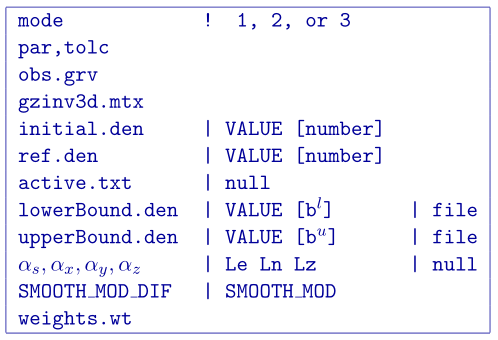
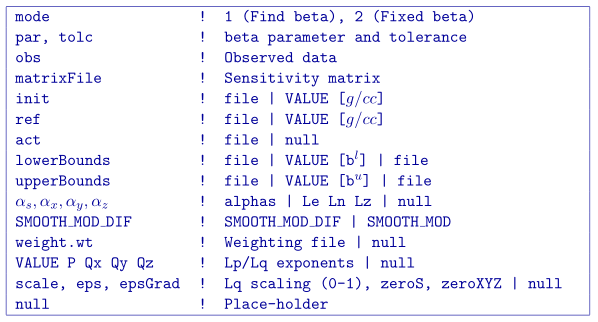
Updated sensitivity and inversion files to version 6.0.

diff --git a/content/theory.rst b/content/theory.rst
@@ -99,6 +99,15 @@ where :math:`\mathbf{\rho}` and :math:`\mathbf{\rho}_o` are :math:`M`-length vec
 
 In the previous two equations, the individual matrices :math:`\mathbf{W}_s`, :math:`\mathbf{W}_x`, :math:`\mathbf{W}_y`, and :math:`\mathbf{W}_z` are straight-forwardly calculated once the model mesh and the weighting functions :math:`w(\mathbf{r})` and :math:`w_s` , :math:`w_x`, :math:`w_y`, :math:`w_z` are defined. The cumulative matrix :math:`\mathbf{W}_m^T\mathbf{W}_m` is then formed for the chosen configuration.
 
+In addition, more realistic geologic-looking models can often be obtained by introducing various levels of sharpness and compactness into the inverted results. This is accomplished by using different norms in the model objective function. Minimizing an :math:`l_p`-norm of a model, as :math:`p` reduces from two to zero, generates a result that goes from smooth to blocky to compact. Our generalized norms, which we refer to as :math:`l_p, l_q`, allow various degrees of smoothness and compactness on different components of the model objective function:
+
+.. _lplqMOF:
+.. math::
+    \phi_m(\mathbf{\rho}) = \left \| \mathbf{W}_s(\mathbf{\rho}-\mathbf{\rho}_o)\right \|^p + \left \| \mathbf{W}_i(\mathbf{\rho})\right \|^{q_i} \quad (i=x,y,z)
+    :label: moflplq
+
+The above equation is solved through an iteratively re-weighted least-squares (IRLS) approach. The inversion is solved to the :math:`l_2` measure and then the model objective function is changed. The :math:`p` norm promotes sparseness through the model. The :math:`q_i` norms promotes blockiness (or smoothness for :math:`q_i=2`) in each principal direction. In equation :eq:`moflplq`, the depth/distance weighting is absorbed into the :math:`\mathbf{W}` matrices. 
+
 The next step in setting up the inversion is to define a misfit measure. Here we use the :math:`l_2`-norm measure
 
 .. _phid_:

diff --git a/content/programs/gzinv3d.rst b/content/programs/gzinv3d.rst
@@ -95,15 +95,28 @@ The parameters within the control file are:
 
 - ``weights.wt``: Name of the :ref:`weights file <weightsFile>` containing weighting matrices. If ``null`` is entered, default values of unity are used (no extra weighting).
 
+- ``VALUE P Qx Qy Qz``: The Lp/Lq exponents for the :ref:`model objective function <lplqMOF>`. The P is for the smallest model component and the Qs are for the spatial components. This line is optional and the L2 norm will be assumed for inputs of ``null`` or if the file ends on the previous line. 
+
+- ``scale,eps,epsGrad``: The scaling between Lp and Lq components in range :math:`[0,1]`. ``eps`` is an effective zero for the model values. ``epsGrad`` is an effective zero value for the change in model values spatially (i.e., derivatives). The program will calculate these zeros based on a single standard deviation of the L2 model if ``null`` is given with no extra scaling between Lp and Lq (``scale = 0.5``). **Note**: This line is optional and is only required if the LpLq constants are given or MOF derivatives below. 
+
+- ``mof.wt``: This input is currently disabled because of the upgrade to the model objective function. Use ``null`` or end the file prematurely.
+
+
 Example of control file
 ~~~~~~~~~~~~~~~~~~~~~~~
 
-Below is an example of a control file with comments:
+Below is an example of a control file with comments for an L2 inversion.
 
 .. figure:: ../../images/gzinv3dEx.png
      :align: center
      :figwidth: 75%
 
+
+Below is an example of an input file for an Lp/Lq file. The program will try to find a sparse model (Lp=0) with smooth sides (Lqx=Lqy=Lqz=2) and fit the data misfit to within 5% of the desired misfit.
+
+.. figure:: ../../images/gzinv3dLpEx.png
+     :align: center
+     :figwidth: 75% 
 
 
 Output files

diff --git a/content/programs/gzsen3d.rst b/content/programs/gzsen3d.rst
@@ -42,13 +42,16 @@ The input parameters for the control file are:
 
 - ``Diag``: Option to output (``Diag=1``) or not output (``Diag=0``) diagnostic files. These files are: (1) the predicted data for a model of :math:`\rho=0.1` with the wavelet compressed sensitivity, (2) the predicted data for a model of :math:`\rho=0.1` with the full sensitivity, (3) the averaged sensitivity in each cell based on the wavelet compression. An extra line in the log file is also written giving the user the achieved reconstruction error (e.g. ``eps`` when ``itol=1`` from above).
 
+- ``Scale``: Option to scale the senstivities (``Scale=1``) or the model objective function (``Scale=0``) by the depth weighting function. This value **must be 0** to scale the sensitivities through the model objective function when the **compact or blocky model norms** are chosen. If scaling the senstivity is chosen, the inversion code will output an error at the beginning. This value is optional and will be set to ``Scale=0`` if the line is not given.
+
+     **NOTE**: Emperical testing has shown that the results are consistent with either option. Setting ``scale=0`` will allow the user to run both a smooth and blocky inversion without having to re-compute the sensitivities.
+
 Example of input file
 ~~~~~~~~~~~~~~~~~~~~~
 
-
 .. figure:: ../../images/gzsen3dEx.png
      :align: center
-     :figwidth: 50% 
+     :figwidth: 75% 
 
 
 Output files

diff --git a/index.rst b/index.rst
@@ -6,7 +6,7 @@
 GRAV3D package
 ==============
 
-GRAV3D is a program library for carrying out forward modelling and inversion of surface, borehole, and airborne gravity data in 3D. The contents of this manual are as follows:
+GRAV3D v6.0 is a program library for carrying out forward modelling and inversion of surface, borehole, and airborne gravity data in 3D. The contents of this manual are as follows:
 
 .. toctree::
     :numbered:
@@ -16,12 +16,9 @@ GRAV3D is a program library for carrying out forward modelling and inversion of 
     Background theory <content/theory>
     Elements <content/elements>    
     Running the programs <content/runPrograms>
-    Examples <content/examples>    
     References <references>
     
-
-..    File formats <content/elements>
-..    Running the programs <content/run>
+..  Need to run examples: maybe nutcracker?
 ..    Examples <content/examples>
 
 
